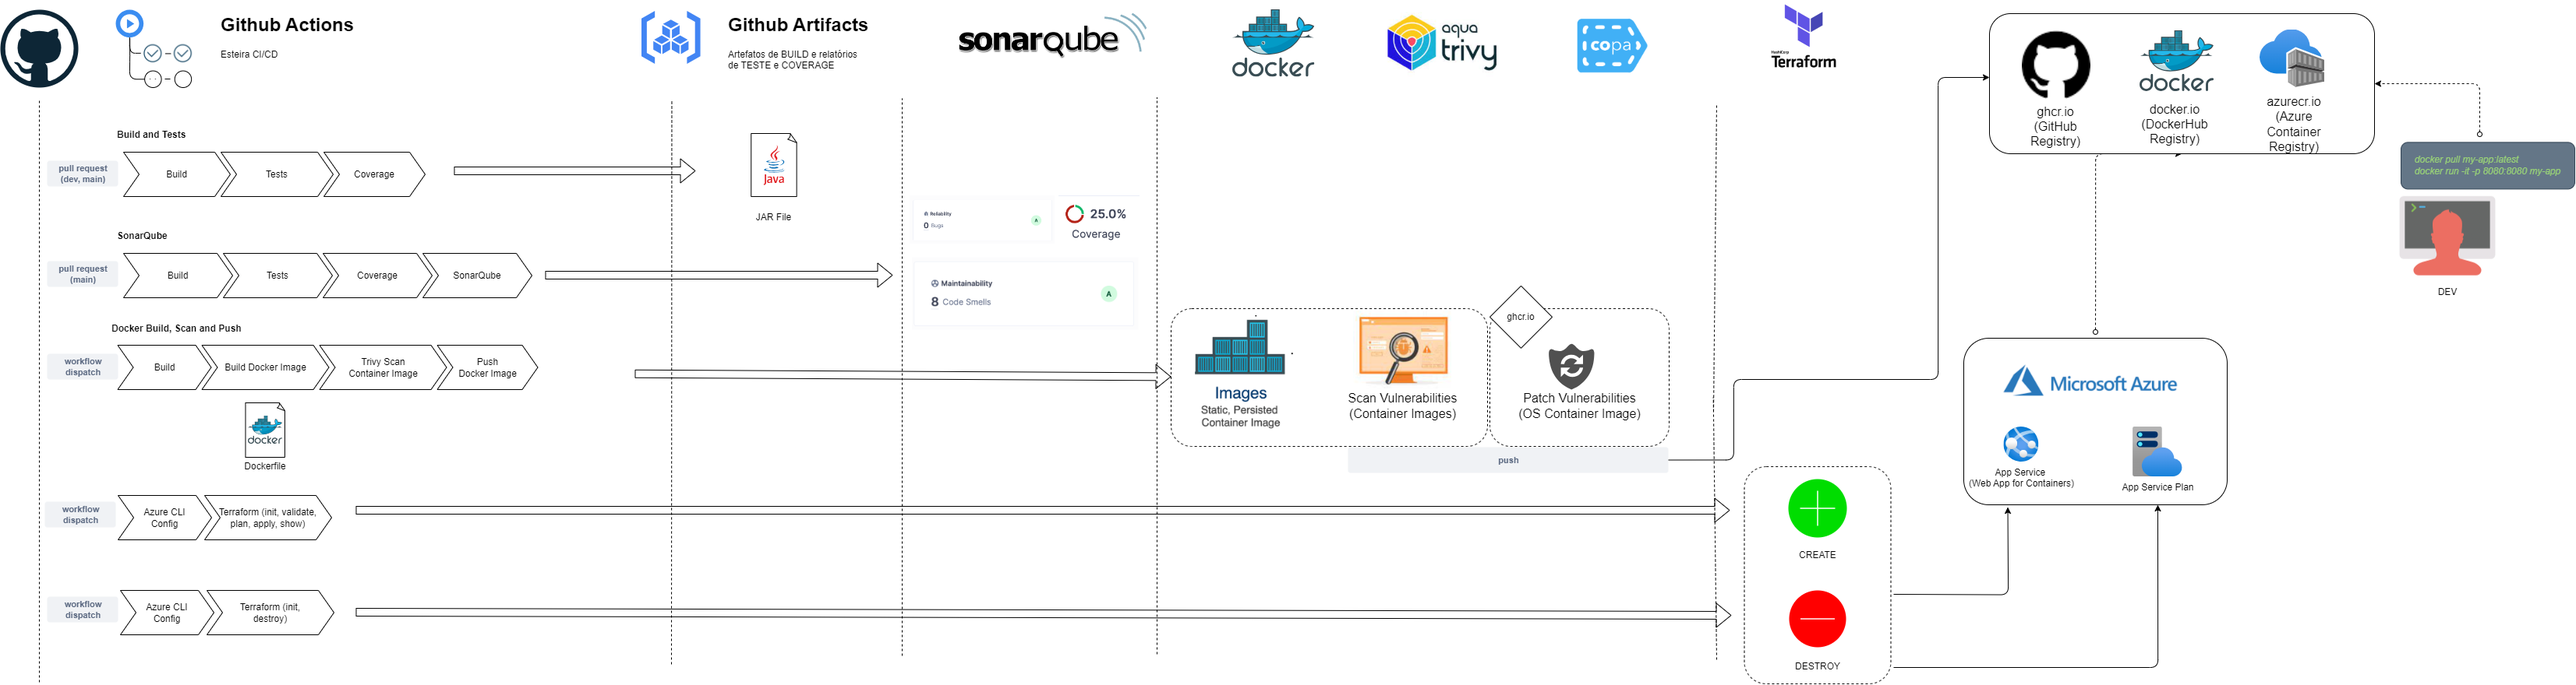
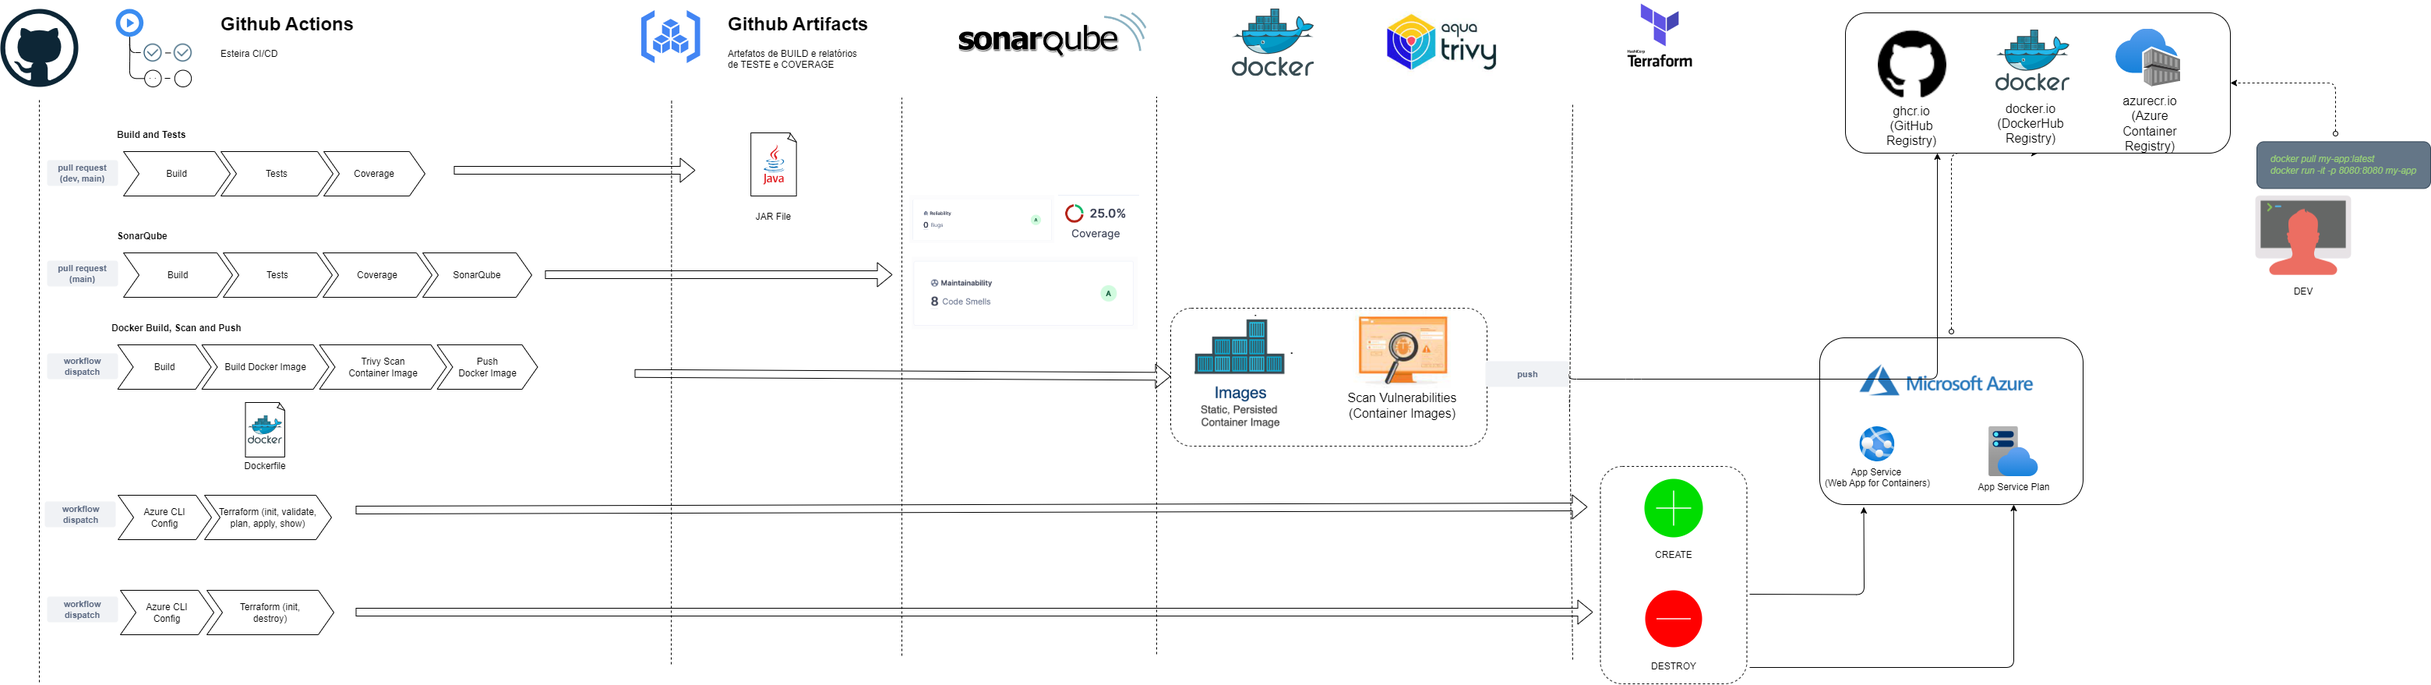
docs: update readme

diff --git a/README.md b/README.md
@@ -6,7 +6,6 @@ Template Java Gradle para GitHub Actions, com as configurações de:
 - Análise de SonarQube
 - Docker (build, trivy scan, push) - _ghcr.io, dockerhub, azurecr.io_
 - Terraform (Azure Web App for Containers)
-- (Extra) Copacetic - _container patch for **ghcr.io**_
 
 A ideia deste template é tornar uma aplicação Java Gradle (Spring Boot) plug-and-play com a pipeline proposta.
 
@@ -23,6 +22,12 @@ A ideia deste template é tornar uma aplicação Java Gradle (Spring Boot) plug-
 - [Workflows Status](#workflows-status)
 - [Instalação](#instalação)
   - [GitHub Actions (Secrets e Variables)](#github-actions-secrets-e-variables)
+  - [SonarQube](#sonarqube)
+  - [GitHub Workflows Permissions](#github-workflow-permissions-actions)
+  - [Conclusão](#conclusão-da-instalação)
+- [Workflows - TL;DR](#workflows---tddr)
+- [Como criar Status Badges](#criar-status-badge-dos-workflows)
+  
 
 # Tecnologias
 
@@ -33,7 +38,6 @@ A ideia deste template é tornar uma aplicação Java Gradle (Spring Boot) plug-
 - SonarQube
 - Docker
 - Aqua Trivy
-- Copacetic (apenas para ghcr.io)
 - Terraform
 - Azure (Web App for Containers)
 
@@ -79,15 +83,19 @@ Criar as seguintes _Secrets_ e _Variables_ no **GitHub**:
 ![secrets.png](screenshots/secrets.png)
 
 ```properties
-AZURE_CONTAINER_REGISTRY_TOKEN=<acr-password>
+AZURE_CLIENT_ID=<app-id>
+AZURE_CLIENT_SECRET=<secret-value>
+AZURE_SUBSCRIPTION_ID=<subscription-id>
+AZURE_TENANT_ID=<tenant-id>
 AZURE_CREDENTIALS=<json-with-service-principal-informations>
-# place this with the right values
+# place this json with the right values
 # {
 #   "clientId": "<app-id>",
 #   "clientSecret": "<secret-value>",
 #   "subscriptionId": "<subscription-id>",
 #   "tenantId": "<tenant-id>",
 # }
+AZURE_CONTAINER_REGISTRY_TOKEN=<acr-password>
 DOCKERHUB_TOKEN=<dockerhub-access-token>
 SONARQUBE_API_TOKEN=<sonarqube-access-token>
 SONARQUBE_HOST=<sonarqube-host>
@@ -101,7 +109,8 @@ AZURE_CONTAINER_REGISTRY_NAME=<acr-server-name>
 AZURE_CONTAINER_REGISTRY_USERNAME=<acr-admin-username>
 AZURE_LOCATION=<azure-location> # eastus2
 CONTAINER_REGISTRY_REPO_NAME=<container-registry-repository-name>
-CONTAINER_REGISTRY_USERNAME=<container-registry-username-or-organization>
+DOCKERHUB_REGISTRY_USERNAME=<dockerhub-container-registry-username-or-organization>
+GH_CONTAINER_REGISTRY_USERNAME=<github-container-registry-username-or-organization>
 ```
 
 ## SonarQube
